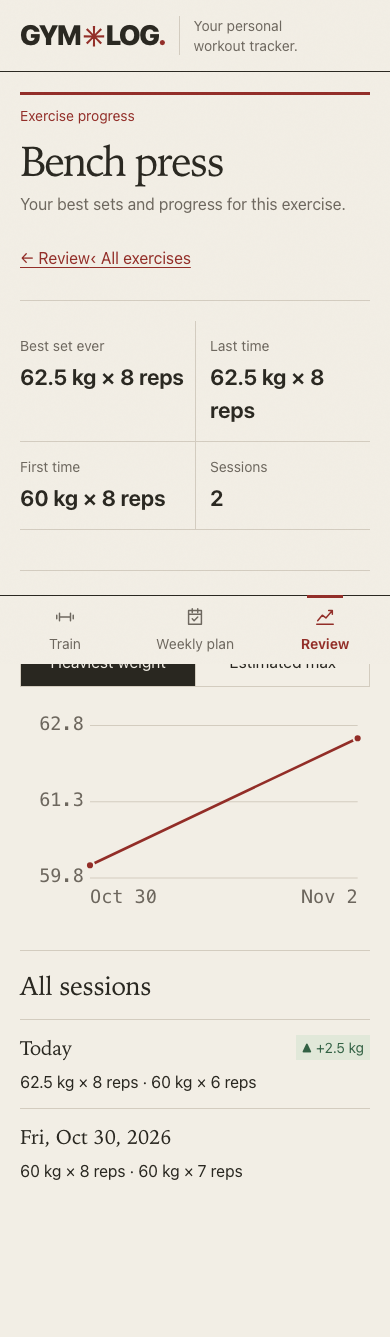
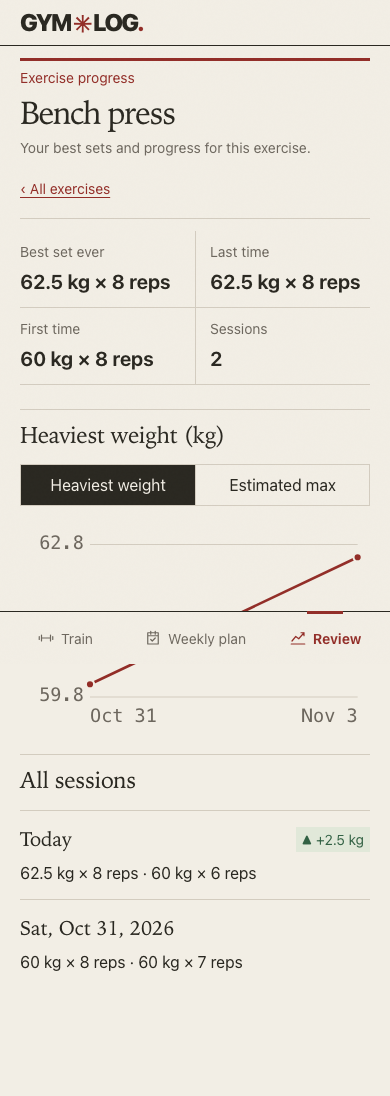
Reduce button widths and vertical spacing for less scrolling

diff --git a/styles.css b/styles.css
@@ -5,7 +5,7 @@
   --up:#326144; --up-bg:#e1e8d9; --down:#922d27; --down-bg:#efddd5; --same-bg:#e7e1d6;
   --serif:"Iowan Old Style",Baskerville,"Palatino Linotype",Georgia,serif;
   --sans:-apple-system,BlinkMacSystemFont,"Segoe UI",sans-serif;
-  --mono:"SFMono-Regular",Consolas,monospace; --tabbar-h:68px; color-scheme:light;
+  --mono:"SFMono-Regular",Consolas,monospace; --tabbar-h:52px; color-scheme:light;
 }
 * { box-sizing:border-box; }
 [hidden] { display:none !important; }
@@ -19,46 +19,46 @@ button:disabled { opacity:.45; cursor:default; }
 ::selection { background:var(--highlight); }
 .skip-link { position:fixed; top:-100px; left:16px; z-index:50; padding:12px; color:var(--paper); background:var(--ink); }
 body[data-keyboard="true"] .skip-link:focus-visible { top:12px; }
-.brand-bar { display:flex; align-items:center; gap:20px; max-width:1200px; margin:auto; padding:calc(18px + env(safe-area-inset-top)) 28px 18px; border-bottom:1px solid var(--ink); }
-.wordmark { color:var(--ink); font:900 28px/1 var(--sans); letter-spacing:-1.7px; text-decoration:none; white-space:nowrap; }
+.brand-bar { display:flex; align-items:center; gap:16px; max-width:1200px; margin:auto; padding:calc(10px + env(safe-area-inset-top)) 24px 10px; border-bottom:1px solid var(--ink); }
+.wordmark { color:var(--ink); font:900 24px/1 var(--sans); letter-spacing:-1.7px; text-decoration:none; white-space:nowrap; }
 .brand-star { color:var(--marker); display:inline-block; margin:0 3px; vertical-align:-1px; }
 .brand-period { color:var(--marker); }
 .brand-caption { font:14px/1.4 var(--sans); color:var(--ink-2); border-left:1px solid var(--rule); padding-left:18px; }
 .edition { margin-left:auto; color:var(--ink); font-size:14px; text-align:right; }
 .edition span { color:var(--ink-2); }
 .topbar, main { max-width:720px; margin:0 auto; padding-left:24px; padding-right:24px; }
-.topbar { margin-top:26px; }
-.eyebrow { display:flex; justify-content:space-between; flex-wrap:wrap; gap:6px 12px; border-top:3px solid var(--marker); padding-top:10px; color:var(--ink-2); font-size:14px; }
+.topbar { margin-top:14px; }
+.eyebrow { display:flex; justify-content:space-between; flex-wrap:wrap; gap:6px 12px; border-top:3px solid var(--marker); padding-top:6px; color:var(--ink-2); font-size:14px; }
 #chapter { color:var(--marker); }
-.topbar h1 { font:400 48px/1.1 var(--serif); letter-spacing:-.045em; margin:12px 0 8px; overflow-wrap:anywhere; }
-#page-note { margin:0 0 20px; color:var(--ink-2); font-size:16px; }
-main { padding-bottom:calc(var(--tabbar-h) + env(safe-area-inset-bottom) + 32px); }
+.topbar h1 { font:400 38px/1.1 var(--serif); letter-spacing:-.045em; margin:8px 0 6px; overflow-wrap:anywhere; }
+#page-note { margin:0 0 12px; color:var(--ink-2); font-size:14px; }
+main { padding-bottom:calc(var(--tabbar-h) + env(safe-area-inset-bottom) + 20px); }
 .tabbar { position:fixed; bottom:0; left:0; right:0; z-index:10; display:grid; grid-template-columns:repeat(3,1fr); border-top:1px solid var(--ink); background:var(--paper); padding-bottom:env(safe-area-inset-bottom); }
-.tabbar button { border:0; background:transparent; height:var(--tabbar-h); display:flex; flex-direction:column; align-items:center; justify-content:center; gap:5px; font-size:14px; color:var(--ink-2); position:relative; }
-.tabbar svg { width:22px; height:22px; stroke:currentColor; fill:none; stroke-width:1.6; stroke-linecap:round; stroke-linejoin:round; }
+.tabbar button { border:0; background:transparent; height:var(--tabbar-h); display:flex; flex-direction:row; align-items:center; justify-content:center; gap:6px; font-size:14px; color:var(--ink-2); position:relative; }
+.tabbar svg { width:18px; height:18px; stroke:currentColor; fill:none; stroke-width:1.6; stroke-linecap:round; stroke-linejoin:round; }
 .tabbar button[aria-current] { color:var(--marker); font-weight:650; }
 .tabbar button[aria-current]::before { content:""; position:absolute; top:-1px; width:36px; height:3px; background:var(--marker); }
-.card { padding:20px 0; margin:20px 0; border-top:1px solid var(--rule); }
+.card { padding:12px 0; margin:12px 0; border-top:1px solid var(--rule); }
 h2,h3 { overflow-wrap:anywhere; }
-.card h2,.plan-card h2,.plan-targets h2,.plan-record h2,.name-settings h2,.plan-section-heading h2,.week-timeline h2,.activity-map h2 { font:400 26px/1.2 var(--serif); letter-spacing:-.02em; margin:0 0 12px; }
+.card h2,.plan-card h2,.plan-targets h2,.plan-record h2,.name-settings h2,.plan-section-heading h2,.week-timeline h2,.activity-map h2 { font:400 23px/1.2 var(--serif); letter-spacing:-.02em; margin:0 0 12px; }
 .muted { color:var(--ink-2); }
 .small { font-size:16px; line-height:1.5; }
-.btn { border:1px solid var(--ink); border-radius:0; padding:10px 16px; min-height:48px; background:transparent; font-size:16px; font-weight:600; }
+.btn { border:1px solid var(--ink); border-radius:0; padding:6px 12px; min-height:40px; background:transparent; font-size:14px; font-weight:600; }
 .btn.primary { color:var(--marker-ink); border-color:var(--marker); background:var(--marker); }
 .btn.primary:hover { background:var(--ink); border-color:var(--ink); }
 .btn.ghost:hover { background:var(--same-bg); }
 .btn.danger,.danger-text { color:var(--down); }
 .btn.danger { border-color:var(--down); }
-.btn.block { display:block; width:100%; margin-top:12px; }
-.back { border:0; background:transparent; min-height:44px; padding:8px 0; color:var(--marker); font:16px var(--sans); text-decoration:underline; text-underline-offset:3px; }
-.icon-btn { border:0; min-width:44px; min-height:44px; padding:0 5px; background:transparent; color:var(--ink-2); font-size:14px; }
-.date-row { display:flex; align-items:center; justify-content:space-between; gap:12px; border-top:1px solid var(--ink); padding:10px 0; }
+.btn.block { display:inline-flex; align-items:center; justify-content:center; width:auto; max-width:100%; margin:8px 8px 0 0; }
+.back { border:0; background:transparent; min-height:36px; padding:5px 0; color:var(--marker); font:14px var(--sans); text-decoration:underline; text-underline-offset:3px; }
+.icon-btn { border:0; min-width:44px; min-height:40px; padding:0 5px; background:transparent; color:var(--ink-2); font-size:14px; }
+.date-row { display:flex; align-items:center; justify-content:space-between; gap:12px; border-top:1px solid var(--ink); padding:6px 0; }
 .date-row label { font-size:14px; }
-input[type="date"] { min-width:0; max-width:100%; min-height:44px; border:1px solid var(--rule); background:var(--paper-2); border-radius:0; padding:8px; font-size:16px; }
-.session-strip { display:flex; gap:20px; border-bottom:1px solid var(--rule); padding:10px 0; color:var(--ink-2); font-size:14px; }
+input[type="date"] { min-width:0; max-width:100%; min-height:40px; border:1px solid var(--rule); background:var(--paper-2); border-radius:0; padding:6px; font-size:16px; }
+.session-strip { display:flex; gap:20px; border-bottom:1px solid var(--rule); padding:6px 0; color:var(--ink-2); font-size:14px; }
 .session-strip b { font-size:18px; color:var(--ink); }
-#add-exercise { margin-top:16px; }
-.empty { text-align:center; border:0; margin:18px 0; padding:14px 0; }
+#add-exercise { margin-top:10px; }
+.empty { text-align:center; border:0; margin:12px 0; padding:8px 0; }
 .empty strong { display:block; font:28px/1.2 var(--serif); letter-spacing:-.02em; }
 .empty p { margin:8px 0; }
 .empty .big { font:italic 52px var(--serif); color:var(--marker); }
@@ -73,82 +73,82 @@ input[type="date"] { min-width:0; max-width:100%; min-height:44px; border:1px so
 .plate-number { fill:var(--paper); font:22px var(--serif); }
 .art-caption { fill:var(--ink-2); font:7px var(--mono); }
 .exercise-card { border-bottom:1px solid var(--rule); }
-.exercise-summary { display:grid; grid-template-columns:26px minmax(0,1fr) 20px; align-items:center; gap:12px; list-style:none; padding:18px 0; }
+.exercise-summary { display:grid; grid-template-columns:26px minmax(0,1fr) 20px; align-items:center; gap:8px; list-style:none; padding:10px 0; }
 .exercise-summary::-webkit-details-marker { display:none; }
 .exercise-order { font:14px var(--mono); color:var(--marker); }
-.exercise-summary strong { display:block; font:26px/1.2 var(--serif); letter-spacing:-.02em; overflow-wrap:anywhere; }
-.exercise-preview { display:block; font-size:14px; color:var(--ink-2); margin-top:5px; }
+.exercise-summary strong { display:block; font:22px/1.2 var(--serif); letter-spacing:-.02em; overflow-wrap:anywhere; }
+.exercise-preview { display:block; font-size:14px; color:var(--ink-2); margin-top:2px; }
 .disclosure-chevron { font-size:24px; color:var(--marker); }
 .exercise-disclosure[open] > summary .disclosure-chevron { transform:rotate(180deg); }
-.exercise-body { padding-bottom:20px; }
-.exercise-toolbar { display:flex; justify-content:flex-end; align-items:center; gap:16px; margin-bottom:8px; }
-.last-time { background:var(--same-bg); border-left:2px solid var(--marker); padding:12px 14px; font-size:16px; }
+.exercise-body { padding-bottom:12px; }
+.exercise-toolbar { display:flex; justify-content:flex-end; align-items:center; gap:10px; margin-bottom:4px; }
+.last-time { background:var(--same-bg); border-left:2px solid var(--marker); padding:8px 10px; font-size:14px; }
 .last-time strong { display:block; color:var(--ink-2); font-size:14px; margin-bottom:5px; }
-.goal { margin-top:8px; }
+.goal { margin-top:4px; }
 .goal-k { display:block; color:var(--marker); font-size:14px; font-weight:600; margin-bottom:4px; }
 .goal mark { background:transparent; color:var(--ink); border-bottom:1px solid var(--marker); font-weight:650; }
-.sets { list-style:none; margin:14px 0; padding:0; }
-.sets li { display:grid; grid-template-columns:44px minmax(0,1fr) auto; align-items:center; gap:4px 10px; border-bottom:1px solid var(--rule); padding:10px 0; }
+.sets { list-style:none; margin:8px 0; padding:0; }
+.sets li { display:grid; grid-template-columns:44px minmax(0,1fr) auto; align-items:center; gap:4px 10px; border-bottom:1px solid var(--rule); padding:6px 0; }
 .sets .num { color:var(--ink-2); font-size:14px; }
-.sets .val { font-size:20px; font-weight:650; font-variant-numeric:tabular-nums; overflow-wrap:anywhere; }
+.sets .val { font-size:18px; font-weight:650; font-variant-numeric:tabular-nums; overflow-wrap:anywhere; }
 .sets .badge { grid-column:2; grid-row:2; justify-self:start; }
 .sets .icon-btn { grid-column:3; grid-row:1; }
 .badge { font:14px/1.5 var(--sans); color:var(--ink-2); background:var(--same-bg); padding:2px 6px; }
 .badge.up { color:var(--up); background:var(--up-bg); }
 .badge.down { color:var(--down); background:var(--down-bg); }
-.set-form { display:grid; grid-template-columns:minmax(0,1fr) minmax(0,1fr) auto; align-items:end; gap:12px; margin-top:16px; }
+.set-form { display:grid; grid-template-columns:minmax(0,1fr) minmax(0,1fr) auto; align-items:end; gap:8px; margin-top:10px; }
 .set-form label,.label,.planned-form label,.plan-name-form label,.plan-record > label { display:block; font-size:14px; font-weight:600; margin:0 0 6px; }
-.set-form input,.planned-form input,.plan-name-form input,.plan-name-form textarea,.goal-form input { width:100%; min-width:0; min-height:48px; border:1px solid var(--rule); border-bottom-color:var(--ink); border-radius:0; background:var(--paper-2); padding:10px; }
-.set-form input { text-align:center; font-size:24px; font-weight:650; }
+.set-form input,.planned-form input,.plan-name-form input,.plan-name-form textarea,.goal-form input { width:100%; min-width:0; min-height:40px; border:1px solid var(--rule); border-bottom-color:var(--ink); border-radius:0; background:var(--paper-2); padding:6px 8px; }
+.set-form input { text-align:center; font-size:20px; font-weight:650; }
 .form-error { color:var(--down); font-size:16px; margin:8px 0; }
 .form-error:empty { display:none; }
 .bodyweight-hint { margin:8px 0 0; font-size:14px; }
 .action-menu { position:relative; display:inline-block; }
-.action-menu > summary { min-height:44px; display:flex; align-items:center; gap:8px; padding:8px 12px; border:1px solid var(--rule); background:var(--paper-2); list-style:none; font-size:14px; font-weight:600; color:var(--ink); }
+.action-menu > summary { min-height:36px; display:flex; align-items:center; gap:6px; padding:5px 9px; border:1px solid var(--rule); background:var(--paper-2); list-style:none; font-size:14px; font-weight:600; color:var(--ink); }
 .action-menu > summary::-webkit-details-marker { display:none; }
 .action-menu > summary::after { content:"⌄"; color:var(--marker); font-size:18px; }
 .action-menu-items { position:absolute; z-index:15; top:calc(100% + 4px); right:0; width:230px; max-width:calc(100vw - 48px); background:var(--paper-2); border:1px solid var(--ink); box-shadow:0 6px 18px #29272018; padding:6px; }
-.action-menu-items button { display:block; width:100%; min-height:48px; padding:10px 12px; border:0; background:transparent; text-align:left; font-size:16px; }
+.action-menu-items button { display:block; width:100%; min-height:40px; padding:7px 10px; border:0; background:transparent; text-align:left; font-size:16px; }
 .action-menu-items button:hover { background:var(--same-bg); }
-.week-nav { display:grid; grid-template-columns:48px minmax(0,1fr) 48px; align-items:center; gap:10px; padding:10px 0; border-top:1px solid var(--ink); }
+.week-nav { display:grid; grid-template-columns:40px minmax(0,1fr) 40px; align-items:center; gap:8px; padding:6px 0; border-top:1px solid var(--ink); }
 .week-nav > span { text-align:center; font-size:16px; }
 .week-nav .btn { padding:8px; font-size:20px; }
-.week-summary { background:var(--same-bg); border-left:3px solid var(--marker); padding:18px; margin:16px 0 24px; }
-.week-count { display:flex; align-items:center; gap:14px; }
-.week-count strong { color:var(--marker); font:52px/1 var(--serif); }
-.week-count span { font-size:18px; }
-.week-summary progress { display:block; width:100%; height:8px; margin:14px 0 12px; appearance:none; border:0; background:var(--rule); accent-color:var(--marker); }
+.week-summary { background:var(--same-bg); border-left:3px solid var(--marker); padding:12px; margin:10px 0 14px; }
+.week-count { display:flex; align-items:center; gap:10px; }
+.week-count strong { color:var(--marker); font:40px/1 var(--serif); }
+.week-count span { font-size:16px; }
+.week-summary progress { display:block; width:100%; height:6px; margin:8px 0; appearance:none; border:0; background:var(--rule); accent-color:var(--marker); }
 .week-summary progress::-webkit-progress-bar { background:var(--rule); }
 .week-summary progress::-webkit-progress-value { background:var(--marker); }
 .week-summary progress::-moz-progress-bar { background:var(--marker); }
-.week-summary p { font-size:14px; margin:0 0 10px; }
+.week-summary p { font-size:14px; margin:0; }
 .week-summary > .action-menu { display:block; width:max-content; margin-left:auto; }
 .goal-form { display:grid; grid-template-columns:1fr 72px; align-items:center; gap:12px; }
 .goal-form button { grid-column:1/-1; }
 .goal-form label { font-size:16px; }
 .goal-form input { text-align:center; }
-.week-timeline { margin:20px 0 24px; }
-.week-days { display:grid; grid-template-columns:repeat(7,minmax(0,1fr)); gap:4px; margin:16px 0; }
-.week-day { display:flex; flex-direction:column; align-items:center; gap:5px; padding:5px 0 8px; border-bottom:1px solid var(--rule); }
+.week-timeline { margin:14px 0 18px; }
+.week-days { display:grid; grid-template-columns:repeat(7,minmax(0,1fr)); gap:4px; margin:10px 0; }
+.week-day { display:flex; flex-direction:column; align-items:center; gap:4px; padding:4px 0 6px; border-bottom:1px solid var(--rule); }
 .week-day.is-today { border-bottom:3px solid var(--marker); }
 .day-name { color:var(--ink-2); font-size:14px; }
 .day-number { font:20px var(--serif); }
 .day-dot { display:flex; align-items:center; justify-content:center; width:26px; height:26px; border:1px solid var(--rule); border-radius:50%; color:var(--ink-2); font-size:18px; }
 .has-activity .day-dot { background:var(--marker); color:var(--marker-ink); border-color:var(--marker); }
 .has-activity .day-dot.done { background:var(--up); color:var(--paper); border-color:var(--up); }
-.activity-disclosure > summary,.completion-options > summary,.plan-form-disclosure > summary { color:var(--marker); padding:10px 0; min-height:44px; font-size:14px; }
+.activity-disclosure > summary,.completion-options > summary,.plan-form-disclosure > summary { color:var(--marker); padding:6px 0; min-height:36px; font-size:14px; }
 .activity-list { list-style:none; padding:0; margin:0; }
 .activity-list li { display:grid; grid-template-columns:90px minmax(0,1fr) auto; align-items:center; gap:10px; padding:12px 0; border-top:1px solid var(--rule); }
 .activity-date,.activity-status { font-size:14px; color:var(--ink-2); }
 .activity-status { display:block; }
 .activity-status.completed { color:var(--up); }
-.plan-section-heading { border-top:1px solid var(--ink); padding-top:20px; }
-.plan-section-heading p { margin:0 0 18px; font-size:14px; }
-.plan-card { background:var(--paper-2); border:1px solid var(--rule); padding:16px; margin:12px 0; }
+.plan-section-heading { border-top:1px solid var(--ink); padding-top:12px; }
+.plan-section-heading p { margin:0 0 10px; font-size:14px; }
+.plan-card { background:var(--paper-2); border:1px solid var(--rule); padding:10px 12px; margin:8px 0; }
 .plan-card.is-complete { border-left:3px solid var(--up); }
 .exercise-index { color:var(--marker); font-size:14px; margin-bottom:5px; }
-.plan-card h2 { margin-bottom:4px; font-size:25px; }
-.completion-label { display:flex; align-items:center; gap:10px; min-height:44px; cursor:pointer; font-weight:600; }
+.plan-card h2 { margin-bottom:4px; font-size:22px; }
+.completion-label { display:flex; align-items:center; gap:10px; min-height:36px; cursor:pointer; font-weight:600; }
 .completion-label input { appearance:auto; width:24px; height:24px; margin:0; flex-shrink:0; accent-color:var(--up); }
 .completion-control { font-size:16px; }
 .completion-stamp { display:block; font-size:14px; color:var(--ink-2); margin-left:34px; }
@@ -159,53 +159,53 @@ input[type="date"] { min-width:0; max-width:100%; min-height:44px; border:1px so
 .day-workouts { display:flex; flex-wrap:wrap; gap:8px; margin:8px 0; }
 .day-workouts button { font-size:14px; }
 .day-workouts [aria-pressed="true"] { color:var(--paper); background:var(--ink); }
-.plan-detail { margin:8px 0 16px; }
-.task-switch { display:grid; grid-template-columns:repeat(3,minmax(0,1fr)); border:1px solid var(--rule); margin-top:14px; }
-.task-switch button { min-height:48px; background:transparent; border:0; padding:8px; font-size:16px; }
+.plan-detail { margin:4px 0 10px; }
+.task-switch { display:grid; grid-template-columns:repeat(3,minmax(0,1fr)); border:1px solid var(--rule); margin-top:8px; }
+.task-switch button { min-height:40px; background:transparent; border:0; padding:6px; font-size:14px; }
 .task-switch button + button { border-left:1px solid var(--rule); }
 .task-switch [aria-pressed="true"] { background:var(--ink); color:var(--paper); }
-.name-settings,.plan-targets,.plan-record { padding:18px 0; border-top:1px solid var(--rule); margin:16px 0; }
+.name-settings,.plan-targets,.plan-record { padding:10px 0; border-top:1px solid var(--rule); margin:10px 0; }
 .plan-name-form { display:grid; gap:8px; }
 .plan-name-form label { margin-top:8px; }
 .plan-name-form textarea { resize:vertical; }
 .plan-name-form button { justify-self:start; }
-.planned-exercise { display:flex; justify-content:space-between; align-items:center; gap:12px; border-top:1px solid var(--rule); padding:14px 0; }
+.planned-exercise { display:flex; justify-content:space-between; align-items:center; gap:12px; border-top:1px solid var(--rule); padding:10px 0; }
 .planned-exercise > div:first-child { min-width:0; overflow-wrap:anywhere; }
 .planned-exercise p { margin:4px 0 0; font-size:14px; color:var(--ink-2); }
-.planned-form { display:grid; grid-template-columns:repeat(3,minmax(0,1fr)); gap:12px; align-items:end; padding:16px; background:var(--same-bg); margin-top:10px; }
+.planned-form { display:grid; grid-template-columns:repeat(3,minmax(0,1fr)); gap:8px; align-items:end; padding:12px; background:var(--same-bg); margin-top:10px; }
 .planned-form h3 { font-size:18px; margin:0; grid-column:1/-1; }
 .plan-exercise-name,.plan-form-help,.planned-form > button,.planned-form .form-error { grid-column:1/-1; }
 .plan-form-help { font-size:14px; margin:0; }
 .plan-record > input { display:block; }
-.review-totals { display:grid; grid-template-columns:repeat(3,minmax(0,1fr)); border-top:1px solid var(--ink); margin:0 0 20px; }
-.stat { padding:14px 10px 14px 0; min-width:0; border-bottom:1px solid var(--rule); }
+.review-totals { display:grid; grid-template-columns:repeat(3,minmax(0,1fr)); border-top:1px solid var(--ink); margin:0 0 12px; }
+.stat { padding:10px 8px 10px 0; min-width:0; border-bottom:1px solid var(--rule); }
 .stat + .stat { border-left:1px solid var(--rule); padding-left:14px; }
 .stat .k { font-size:14px; color:var(--ink-2); }
-.stat .v { margin-top:5px; font-size:22px; font-weight:650; overflow-wrap:anywhere; }
-.activity-map { padding:18px; border:1px solid var(--rule); margin-bottom:22px; }
+.stat .v { margin-top:5px; font-size:20px; font-weight:650; overflow-wrap:anywhere; }
+.activity-map { padding:12px; border:1px solid var(--rule); margin-bottom:14px; }
 .section-heading { display:flex; align-items:baseline; justify-content:space-between; gap:8px; }
 .section-heading .muted { font-size:14px; }
 .activity-grid { display:grid; grid-template-columns:repeat(7,minmax(0,1fr)); gap:5px; margin:14px 0; }
-.activity-cell { display:flex; justify-content:center; align-items:center; height:34px; border:1px solid var(--rule); background:var(--same-bg); font-size:14px; color:var(--ink-2); }
+.activity-cell { display:flex; justify-content:center; align-items:center; height:28px; border:1px solid var(--rule); background:var(--same-bg); font-size:14px; color:var(--ink-2); }
 .activity-cell.active { background:var(--marker); color:var(--marker-ink); border-color:var(--marker); }
 .activity-cell.current { outline:2px solid var(--marker); outline-offset:1px; }
 .activity-cell.future { opacity:.45; }
 .activity-map p { font-size:14px; margin:8px 0 0; }
 .review-choice { width:100%; display:flex; align-items:center; justify-content:space-between; gap:12px; border:0; border-top:1px solid var(--rule); background:transparent; padding:18px 0; text-align:left; }
-.review-choice strong { display:block; font:25px var(--serif); }
+.review-choice strong { display:block; font:22px var(--serif); }
 .review-choice .muted { display:block; margin-top:4px; font-size:14px; }
 .review-choice > span:last-child { color:var(--marker); font-size:24px; }
 .settings-group { border-top:1px solid var(--rule); }
-.settings-group > summary { padding:18px 24px 18px 0; min-height:64px; }
+.settings-group > summary { padding:12px 20px 12px 0; min-height:52px; }
 .settings-group > summary strong { font-size:20px; }
 .settings-group > summary .muted { display:block; font-size:14px; margin-top:4px; }
-.settings-group .card { border:0; margin:0; padding:12px 0 22px; }
-.list-btn { width:100%; display:flex; justify-content:space-between; align-items:center; gap:14px; border:0; border-bottom:1px solid var(--rule); background:transparent; padding:18px 0; margin:0; text-align:left; }
+.settings-group .card { border:0; margin:0; padding:8px 0 14px; }
+.list-btn { width:100%; display:flex; justify-content:space-between; align-items:center; gap:14px; border:0; border-bottom:1px solid var(--rule); background:transparent; padding:10px 0; margin:0; text-align:left; }
 .list-btn > span:first-child { min-width:0; overflow-wrap:anywhere; }
-.list-btn .title { font:26px var(--serif); }
+.list-btn .title { font:22px var(--serif); }
 .chev { color:var(--marker); font:30px var(--serif); }
 .seg { display:grid; grid-template-columns:1fr 1fr; border:1px solid var(--rule); margin-top:14px; }
-.seg button { min-height:48px; background:transparent; border:0; padding:8px; font-size:16px; }
+.seg button { min-height:40px; background:transparent; border:0; padding:8px; font-size:16px; }
 .seg button + button { border-left:1px solid var(--rule); }
 .seg [aria-pressed="true"] { background:var(--ink); color:var(--paper); }
 .stats { display:grid; grid-template-columns:1fr 1fr; }
@@ -221,7 +221,7 @@ input[type="date"] { min-width:0; max-width:100%; min-height:44px; border:1px so
 .session:first-of-type { margin-top:16px; }
 .session .d { display:flex; flex-wrap:wrap; align-items:center; justify-content:space-between; gap:8px; font:20px var(--serif); }
 .session .s { margin-top:8px; }
-dialog { width:min(92vw,460px); max-height:85dvh; overflow:auto; padding:24px; border:1px solid var(--ink); border-top:3px solid var(--marker); border-radius:0; background:var(--paper); color:var(--ink); }
+dialog { width:min(92vw,460px); max-height:85dvh; overflow:auto; padding:18px; border:1px solid var(--ink); border-top:3px solid var(--marker); border-radius:0; background:var(--paper); color:var(--ink); }
 dialog::backdrop { background:#211e19a6; backdrop-filter:blur(3px); }
 dialog h2 { font:30px var(--serif); margin:0 0 18px; letter-spacing:-.02em; }
 .sheet-heading { display:flex; justify-content:space-between; align-items:center; gap:12px; margin-bottom:18px; }
@@ -243,14 +243,14 @@ dialog h2 { font:30px var(--serif); margin:0 0 18px; letter-spacing:-.02em; }
   #toast { bottom:24px; }
 }
 @media (max-width:600px) {
-  .brand-bar { padding:calc(16px + env(safe-area-inset-top)) 20px 16px; gap:14px; }
-  .brand-caption { padding-left:14px; }
+  .brand-bar { padding:calc(10px + env(safe-area-inset-top)) 20px 10px; gap:14px; }
+  .brand-caption { display:none; }
   .edition { display:none; }
   .topbar,main { padding-left:20px; padding-right:20px; }
-  .topbar { margin-top:20px; }
-  .topbar h1 { font-size:42px; }
-  .set-form { grid-template-columns:1fr 1fr; gap:8px; }
-  .set-form .btn { grid-column:1/-1; }
+  .topbar { margin-top:12px; }
+  .topbar h1 { font-size:32px; }
+  .set-form { grid-template-columns:minmax(0,1fr) minmax(0,1fr) auto; gap:8px; }
+  .set-form .btn { grid-column:auto; }
   .activity-list li { grid-template-columns:80px minmax(0,1fr); }
   .activity-list .back { grid-column:2; justify-self:start; }
   .planned-form { grid-template-columns:1fr 1fr; }
@@ -263,10 +263,10 @@ dialog h2 { font:30px var(--serif); margin:0 0 18px; letter-spacing:-.02em; }
 @media (max-width:360px) {
   .brand-caption { display:none; }
   .topbar,main { padding-left:18px; padding-right:18px; }
-  .topbar { margin-top:16px; }
-  .topbar h1 { font-size:38px; }
-  #page-note { font-size:14px; margin-bottom:16px; }
-  .week-summary { padding:14px; }
+  .topbar { margin-top:10px; }
+  .topbar h1 { font-size:30px; }
+  #page-note { font-size:14px; margin-bottom:10px; }
+  .week-summary { padding:10px; }
   .planned-exercise { align-items:start; }
   .planned-exercise .action-menu { flex-shrink:0; }
 }
@@ -284,13 +284,18 @@ dialog h2 { font:30px var(--serif); margin:0 0 18px; letter-spacing:-.02em; }
 .activity-grid { margin-top:6px; }
 
 .first-time-note { font-size:14px; margin:0 auto 0 0; max-width:210px; }
-.review-choices { margin-bottom:20px; }
-.review-choice { padding:14px 0; }
-.plan-card { display:grid; grid-template-columns:minmax(0,1fr) auto; gap:6px 14px; }
+.review-choices { margin-bottom:12px; }
+.review-choice { padding:10px 0; }
+.plan-card { display:grid; grid-template-columns:minmax(0,1fr) auto; gap:4px 10px; }
 .plan-card > h2 { grid-column:1; grid-row:1; align-self:center; margin:0; }
 .plan-card > .completion-control { grid-column:2; grid-row:1; }
 .plan-card > .completion-control .completion-label { font-size:14px; }
 .plan-card > .planned-names,.plan-card > p { grid-column:1/-1; margin:2px 0; }
-.plan-card > .btn { grid-column:1/-1; margin-top:6px; min-height:44px; }
+.plan-card > .btn { grid-column:1/-1; justify-self:start; margin-top:4px; min-height:40px; }
 .plan-section-heading .section-heading { margin-bottom:8px; }
 .plan-section-heading .section-heading h2 { margin:0; }
+
+/* Small visual controls retain comfortable touch targets on phones. */
+@media (pointer:coarse) {
+  .btn,.btn.block,.plan-card > .btn,.icon-btn,.action-menu > summary,.action-menu-items button,.task-switch button,.seg button,.back,.completion-label,.chips button,.activity-disclosure > summary,.completion-options > summary,.plan-form-disclosure > summary { min-height:44px; }
+}

diff --git a/sw.js b/sw.js
@@ -1,5 +1,5 @@
 /* Offline support: serve app files from cache, update them in the background. */
-const CACHE = 'gymlog-v7';
+const CACHE = 'gymlog-v8';
 // './index.html' is not listed: hosts like Cloudflare Pages redirect it to './',
 // and Safari refuses to show a redirected response served by a service worker.
 const FILES = [

diff --git a/README.md b/README.md
@@ -65,8 +65,8 @@ and reports the failure instead of claiming the change was saved.
 
 The interface uses plain instructions and readable control labels. Workout values
 include units and repetitions, set actions are labeled Save/Delete, and controls
-remain at least 44px tall. Functional UI text is at least 14px; smaller lettering
-is confined to decorative artwork. On phones, the save action has a full-width row.
+use at least 44px height for primary touch controls. Functional UI text is at least 14px; smaller lettering
+is confined to decorative artwork. Weight, repetitions, and Save share one compact row on phones.
 
 ## Flexible weekly plans
 
@@ -116,3 +116,10 @@ Additional browser checks: `PLAYWRIGHT=/path/to/node_modules/playwright node
 tests/compact-e2e.js`. They verify the new hierarchy, absence of default destructive
 controls, independent task panes, draft retention, responsive layouts, and keyboard
 behavior. The existing workout and planner suites still exercise the full flows.
+
+## Smaller controls (v1.2.1)
+
+Action buttons use their natural width rather than filling the page. The brand
+header, bottom navigation, exercise rows, workout cards, and activity summaries
+have tighter spacing. Primary touch controls keep a 44px minimum height on touch
+screens; labels remain at least 14px and inputs at least 16px to stay readable.
